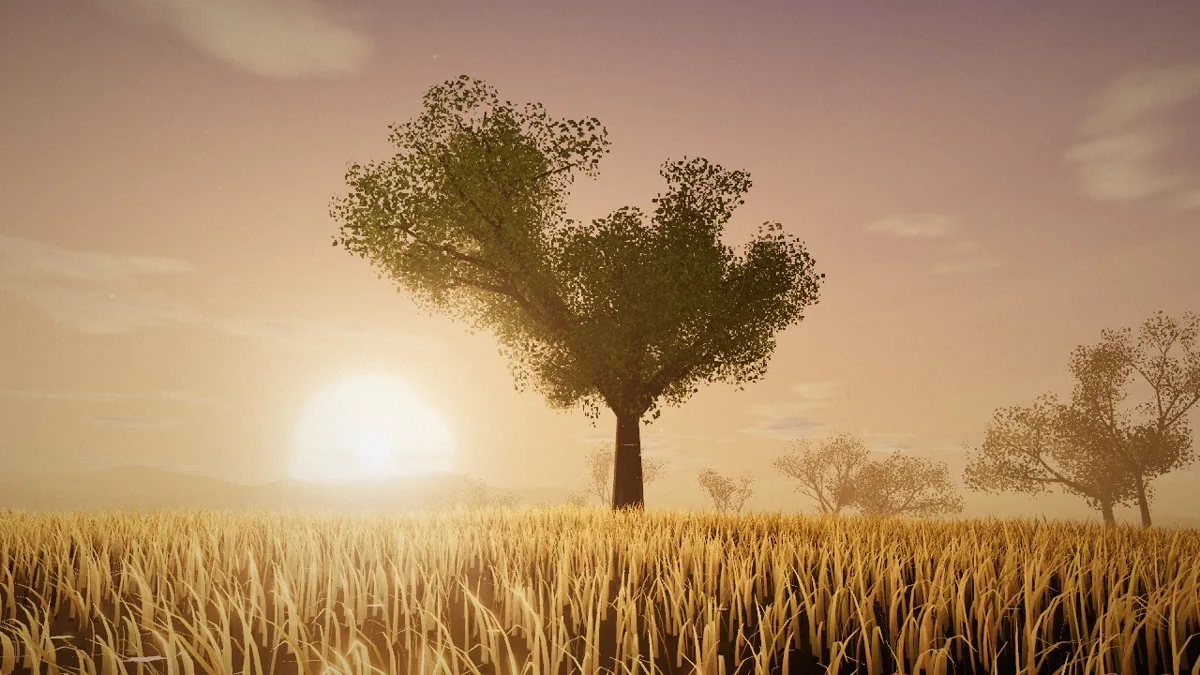
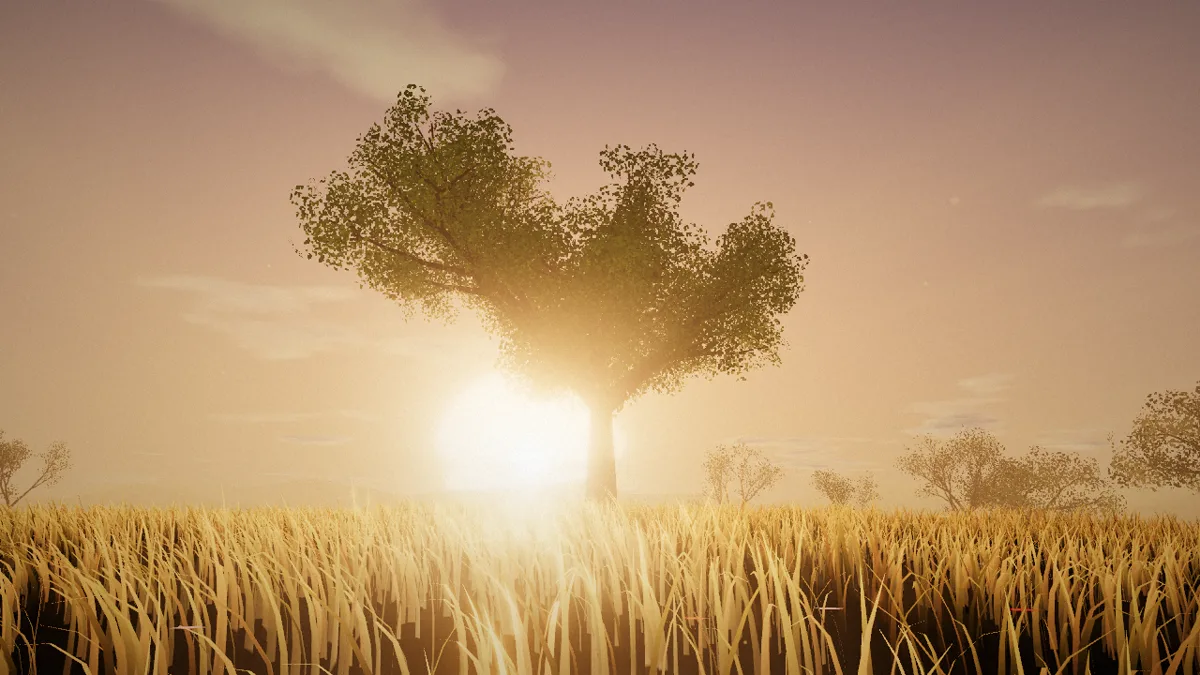
Windfield: light shafts, fuller bonfire, portrait lens and phone layout
- Screen-space light shafts from the sun, occluded by the oak and grass,
  with a Light shafts slider and per-mood values (strongest at Golden)
- Bonfire flame shape and colour reworked so it reads as fire, not a glow
- Wider lens on portrait screens so the subject fits side to side
- FPS pill no longer wraps or clips on phones
- Thumbnail refreshed with the light shafts

Claude-Session: https://claude.ai/code/session_013B6jEAUeQPddf9TJmz6rUn

diff --git a/demos/windfield/src/presets.js b/demos/windfield/src/presets.js
@@ -27,6 +27,7 @@ export const PARAMS = [
   { key: 'sunAzimuth', tab: 'sky', section: 'Light', label: 'Sun bearing', min: 0, max: 360, step: 1, unit: '°' },
   { key: 'exposure', tab: 'sky', section: 'Light', label: 'Exposure', min: 0.2, max: 2, step: 0.01, unit: '×' },
   { key: 'bloom', tab: 'sky', section: 'Light', label: 'Bloom', min: 0, max: 1.5, step: 0.01, unit: '' },
+  { key: 'shafts', tab: 'sky', section: 'Light', label: 'Light shafts', min: 0, max: 1.5, step: 0.01, unit: '×' },
   { key: 'cloudCover', tab: 'sky', section: 'Clouds', label: 'Cloud cover', min: 0, max: 1, step: 0.01, unit: '%', pct: true },
   { key: 'cloudDensity', tab: 'sky', section: 'Clouds', label: 'Cloud density', min: 0.2, max: 1.6, step: 0.01, unit: '×' },
   { key: 'cloudSpeed', tab: 'sky', section: 'Clouds', label: 'Cloud speed', min: 0, max: 2, step: 0.01, unit: '×' },
@@ -68,7 +69,7 @@ const DEFAULTS = {
   windStrength: 0.55, windDir: 35, gustStrength: 1, gustSize: 34, gustSpeed: 1, turbulence: 0.45,
   pollen: 0.4, leafFall: 0, rain: 0,
   grassHeight: 0.8, heightVariation: 0.55, flowers: 0.35, dryness: 0.15, translucency: 1, sheen: 0.5,
-  sunElevation: 32, sunAzimuth: 210, sunIntensity: 3.2, hemiIntensity: 1.1, exposure: 1, bloom: 0.35,
+  sunElevation: 32, sunAzimuth: 210, sunIntensity: 3.2, hemiIntensity: 1.1, exposure: 1, bloom: 0.35, shafts: 0.3,
   cloudCover: 0.42, cloudDensity: 0.9, cloudSpeed: 0.5, highClouds: 0.35,
   haze: 0.35, mist: 0, stars: 0, lightning: 0,
   leafSeason: 0, canopy: 1, fire: 0, fireflies: 0, birds: 0.6,
@@ -92,7 +93,7 @@ export const PRESETS = [
     camera: { radius: 33, height: 2.2, speed: 0.012, startAngle: 2.6 },
     values: {
       windStrength: 0.18, gustStrength: 0.6, gustSpeed: 0.45, turbulence: 0.25, pollen: 0.15,
-      sunElevation: 3.5, sunAzimuth: 95, sunIntensity: 2.2, hemiIntensity: 0.75, exposure: 1.05, bloom: 0.55,
+      sunElevation: 3.5, sunAzimuth: 95, sunIntensity: 2.2, hemiIntensity: 0.75, exposure: 1.05, bloom: 0.55, shafts: 0.8,
       cloudCover: 0.35, cloudDensity: 0.7, cloudSpeed: 0.2, highClouds: 0.6, haze: 0.62, mist: 0.85,
       dryness: 0.05, translucency: 1.5, flowers: 0.2, birds: 0.35,
       skyZenith: '#46628f', skyHorizon: '#f2c7a2', sunColor: '#ffbf86', sunDisc: '#ffe3c2',
@@ -122,7 +123,7 @@ export const PRESETS = [
     camera: { radius: 32, height: 1.7, speed: 0.014, startAngle: 0.35 },
     values: {
       windStrength: 0.48, gustStrength: 1.2, pollen: 0.75, dryness: 0.45, translucency: 1.9, sheen: 0.7,
-      sunElevation: 6.5, sunAzimuth: 255, sunIntensity: 3.6, hemiIntensity: 0.8, exposure: 1.0, bloom: 0.75,
+      sunElevation: 6.5, sunAzimuth: 255, sunIntensity: 3.6, hemiIntensity: 0.8, exposure: 1.0, bloom: 0.75, shafts: 1.0,
       cloudCover: 0.32, cloudDensity: 0.8, highClouds: 0.55, haze: 0.36, mist: 0.12, flowers: 0.3, birds: 0.5,
       skyZenith: '#40507f', skyHorizon: '#ffb26b', sunColor: '#ffb062', sunDisc: '#fff0cf',
       hemiSky: '#9a8f9a', hemiGround: '#4a3a1a', grassBase: '#2e3a14', grassTip: '#c3b24e', grassDry: '#e0b35a',
@@ -138,7 +139,7 @@ export const PRESETS = [
     camera: { radius: 29, height: 2.4, speed: 0.022, startAngle: 4.0 },
     values: {
       windStrength: 1.35, gustStrength: 1.8, gustSize: 26, gustSpeed: 2.2, turbulence: 0.9, pollen: 0, rain: 0.75,
-      leafFall: 0.35, sunElevation: 22, sunAzimuth: 150, sunIntensity: 0.9, hemiIntensity: 0.9, exposure: 1.1, bloom: 0.25,
+      leafFall: 0.35, sunElevation: 22, sunAzimuth: 150, sunIntensity: 0.9, hemiIntensity: 0.9, exposure: 1.1, bloom: 0.25, shafts: 0,
       cloudCover: 0.95, cloudDensity: 1.5, cloudSpeed: 1.8, highClouds: 0.2, haze: 0.65, mist: 0.25, lightning: 0.8,
       flowers: 0.15, birds: 0, translucency: 0.4, sheen: 0.9,
       skyZenith: '#22282f', skyHorizon: '#6b737a', sunColor: '#c5ccd6', sunDisc: '#b8c0c8',
@@ -155,7 +156,7 @@ export const PRESETS = [
     camera: { radius: 28, height: 2.0, speed: 0.013, startAngle: 5.2 },
     values: {
       windStrength: 0.5, gustStrength: 1.3, pollen: 0.1, leafFall: 0.85, leafSeason: 0.92, canopy: 0.8,
-      dryness: 0.7, flowers: 0.05, sunElevation: 14, sunAzimuth: 230, sunIntensity: 2.8, bloom: 0.4,
+      dryness: 0.7, flowers: 0.05, sunElevation: 14, sunAzimuth: 230, sunIntensity: 2.8, bloom: 0.4, shafts: 0.6,
       cloudCover: 0.5, highClouds: 0.4, haze: 0.45, mist: 0.2, birds: 0.45, translucency: 1.3,
       skyZenith: '#4b6a95', skyHorizon: '#e3c9a8', sunColor: '#ffcf96',
       grassBase: '#2c3517', grassTip: '#9a9a45', grassDry: '#c18f4a', groundA: '#32301a', groundB: '#45381e',
@@ -170,7 +171,7 @@ export const PRESETS = [
     camera: { radius: 27, height: 1.8, speed: 0.01, startAngle: 1.8 },
     values: {
       windStrength: 0.25, gustStrength: 0.8, gustSpeed: 0.6, turbulence: 0.3, pollen: 0, fireflies: 1,
-      sunElevation: 28, sunAzimuth: 140, sunIntensity: 0.55, hemiIntensity: 0.35, exposure: 1.25, bloom: 0.9,
+      sunElevation: 28, sunAzimuth: 140, sunIntensity: 0.55, hemiIntensity: 0.35, exposure: 1.25, bloom: 0.9, shafts: 0.35,
       cloudCover: 0.3, cloudDensity: 0.6, cloudSpeed: 0.25, highClouds: 0.25, haze: 0.4, mist: 0.45, stars: 1,
       flowers: 0.2, birds: 0, translucency: 0.5, sunSize: 0.75, glow: 0.4,
       skyZenith: '#050913', skyHorizon: '#1a2638', sunColor: '#9fb6e0', sunDisc: '#e8eefc',
@@ -188,7 +189,7 @@ export const PRESETS = [
     values: {
       subject: 'stones',
       windStrength: 0.4, gustStrength: 1.1, turbulence: 0.5, pollen: 0, fire: 1, fireflies: 0,
-      sunElevation: 9, sunAzimuth: 300, sunIntensity: 0.6, hemiIntensity: 0.35, exposure: 1.15, bloom: 1.0,
+      sunElevation: 9, sunAzimuth: 300, sunIntensity: 0.6, hemiIntensity: 0.35, exposure: 1.15, bloom: 1.0, shafts: 0.15,
       cloudCover: 0.8, cloudDensity: 1.2, cloudSpeed: 0.6, highClouds: 0.5, haze: 0.7, mist: 0.35, stars: 0.25,
       flowers: 0, dryness: 0.5, birds: 0, translucency: 0.6, glow: 0.5, sunSize: 0.8,
       skyZenith: '#120608', skyHorizon: '#6b1f12', sunColor: '#ff6a3a', sunDisc: '#ffb08a',

diff --git a/demos/windfield/src/main.js b/demos/windfield/src/main.js
@@ -104,6 +104,41 @@ function refreshEnv() {
 const rt = new THREE.WebGLRenderTarget(1, 1, { type: THREE.HalfFloatType, samples: 4 });
 const composer = new EffectComposer(renderer, rt);
 composer.addPass(new RenderPass(scene, camera));
+// Light shafts: radial blur of the bright sky towards the sun's screen position, so the
+// oak and the grass cut dark gaps into the beams. Runs on HDR colour, before bloom.
+const shafts = new ShaderPass({
+  uniforms: {
+    tDiffuse: { value: null },
+    uSun: { value: new THREE.Vector2(0.5, 0.5) },
+    uStrength: { value: 0 },
+    uTint: { value: new THREE.Color() },
+  },
+  vertexShader: 'varying vec2 vUv; void main(){ vUv = uv; gl_Position = projectionMatrix * modelViewMatrix * vec4(position,1.0); }',
+  fragmentShader: /* glsl */ `
+    uniform sampler2D tDiffuse; uniform vec2 uSun; uniform float uStrength; uniform vec3 uTint;
+    varying vec2 vUv;
+    void main(){
+      vec4 base = texture2D(tDiffuse, vUv);
+      if (uStrength <= 0.001) { gl_FragColor = base; return; }
+      const int N = 40;
+      vec2 delta = (uSun - vUv) / float(N) * 0.92;
+      vec2 uv = vUv;
+      float illum = 0.0;
+      float decay = 1.0;
+      for (int i = 0; i < N; i++) {
+        uv += delta;
+        vec2 c = clamp(uv, 0.001, 0.999);
+        vec3 s = texture2D(tDiffuse, c).rgb;
+        float l = max(dot(s, vec3(0.2126, 0.7152, 0.0722)) - 0.9, 0.0);
+        illum += min(l, 6.0) * decay;
+        decay *= 0.962;
+      }
+      illum /= float(N);
+      float reach = 1.0 - smoothstep(0.15, 1.1, length((vUv - uSun) * vec2(1.6, 1.0)));
+      gl_FragColor = vec4(base.rgb + uTint * illum * uStrength * reach, base.a);
+    }`,
+});
+composer.addPass(shafts);
 const bloom = new UnrealBloomPass(new THREE.Vector2(256, 256), 0.4, 0.55, 0.86);
 composer.addPass(bloom);
 composer.addPass(new OutputPass());
@@ -258,6 +293,7 @@ function applyState() {
   scene.fog.density = 0.0012 + s.haze * 0.0085 + s.mist * 0.004;
   renderer.toneMappingExposure = s.exposure;
   bloom.strength = s.bloom;
+  shafts.uniforms.uTint.value.copy(colours.sunColor);
 
   mistUniforms.uMist.value = s.mist;
   mistUniforms.uMistColor.value.copy(colours.mistColor);
@@ -376,6 +412,8 @@ function resize() {
   const div = QUALITY[quality].bloomDiv;
   bloom.resolution.set(w / div, h / div);
   camera.aspect = w / h;
+  // Portrait screens get a wider lens so the subject still fits side to side.
+  camera.fov = w / h < 1 ? 64 : 48;
   camera.updateProjectionMatrix();
   particleUniforms.uPixelRatio.value = renderer.getPixelRatio();
 }
@@ -472,6 +510,12 @@ function frame(dt) {
   sun.target.position.set(0, heightAt(0, 0), 0);
   sun.position.copy(sun.target.position).addScaledVector(sunDir, 120);
 
+  const sunScreen = tmpV.copy(camera.position).addScaledVector(sunDir, 1000).project(camera);
+  const facing = camera.getWorldDirection(new THREE.Vector3()).dot(sunDir);
+  const onScreen = THREE.MathUtils.smoothstep(facing, 0.35, 0.75) *
+    (1 - THREE.MathUtils.smoothstep(Math.max(Math.abs(sunScreen.x), Math.abs(sunScreen.y)), 1.0, 1.6));
+  shafts.uniforms.uSun.value.set(sunScreen.x * 0.5 + 0.5, sunScreen.y * 0.5 + 0.5);
+  shafts.uniforms.uStrength.value = (state.shafts ?? 0) * onScreen * THREE.MathUtils.smoothstep(state.sunElevation, -2, 2) * 1.8;
   const sunView = tmpV.copy(sunDir).transformDirection(camera.matrixWorldInverse);
   grassUniforms.uSunViewDir.value.copy(sunView);
   treeUniforms.uSunViewDir.value.copy(sunView);

diff --git a/demos/windfield/src/subjects.js b/demos/windfield/src/subjects.js
@@ -130,11 +130,11 @@ export class Bonfire {
         void main() {
           vec2 uv = vUv;
           float n = vn(vec2(uv.x * 5.0, uv.y * 4.0 - uTime * 3.2)) * 0.6 + vn(vec2(uv.x * 11.0, uv.y * 9.0 - uTime * 5.5)) * 0.4;
-          float w = (1.0 - uv.y) * 0.42 + 0.06;
-          float shape = 1.0 - smoothstep(w * 0.45, w, abs(uv.x - 0.5) + (n - 0.5) * 0.35 * uv.y);
+          float w = (1.0 - pow(uv.y, 0.8)) * 0.46 + 0.05;
+          float shape = 1.0 - smoothstep(w * 0.3, w, abs(uv.x - 0.5) + (n - 0.5) * 0.4 * uv.y);
           shape *= smoothstep(1.0, 0.25, uv.y + n * 0.35) * smoothstep(0.0, 0.08, uv.y);
-          vec3 col = mix(vec3(1.0, 0.85, 0.45), vec3(1.0, 0.28, 0.04), smoothstep(0.1, 0.7, uv.y + n * 0.2));
-          gl_FragColor = vec4(col * shape * 2.2 * uAmount, 1.0);
+          vec3 col = mix(vec3(1.0, 0.7, 0.32), vec3(1.0, 0.22, 0.03), smoothstep(0.05, 0.6, uv.y + n * 0.2));
+          gl_FragColor = vec4(col * shape * 1.8 * uAmount, 1.0);
           #include <tonemapping_fragment>
           #include <colorspace_fragment>
         }`,

diff --git a/demos/windfield/styles.css b/demos/windfield/styles.css
@@ -324,6 +324,7 @@ input[type='range']:focus-visible { outline: 2px solid var(--accent); outline-of
   -webkit-backdrop-filter: blur(14px);
   color: var(--fg-2);
   min-width: 170px;
+  white-space: nowrap;
 }
 .wf-sep { width: 1px; height: 12px; background: var(--line); }
 
@@ -415,6 +416,7 @@ input[type='range']:focus-visible { outline: 2px solid var(--accent); outline-of
   .wf-bottom { grid-template-columns: 1fr auto; padding: 0 12px 18px; gap: 10px; }
   .wf-presets { grid-column: 1 / -1; grid-row: 1; justify-self: stretch; }
   .wf-fps { min-width: 0; }
+  .wf-fps .wf-sep, .wf-fps [data-preset-name] { display: none; }
   .wf-hints { display: none; }
 }
 

diff --git a/demos/windfield/DESIGN.md b/demos/windfield/DESIGN.md
@@ -33,7 +33,7 @@ the falling leaves.
 | `src/particles.js` | Pollen, fireflies, bonfire embers and rain as stateless GPU particles. Falling leaves and birds on the CPU. |
 | `src/subjects.js` | The alternatives to the oak (a copper-seamed monolith, a standing-stone circle) and the bonfire. |
 | `src/presets.js` | Every parameter once, with range and tab. Presets are sparse overrides. |
-| `src/main.js` | Renderer, post (bloom, ACES, vignette, grain), preset tweening, lightning, quality levels. |
+| `src/main.js` | Renderer, post (light shafts, bloom, ACES, vignette, grain), preset tweening, lightning, quality levels. |
 | `src/controls.js` | Cinematic orbit, and free camera on drag or WASD. |
 
 ## Moods
